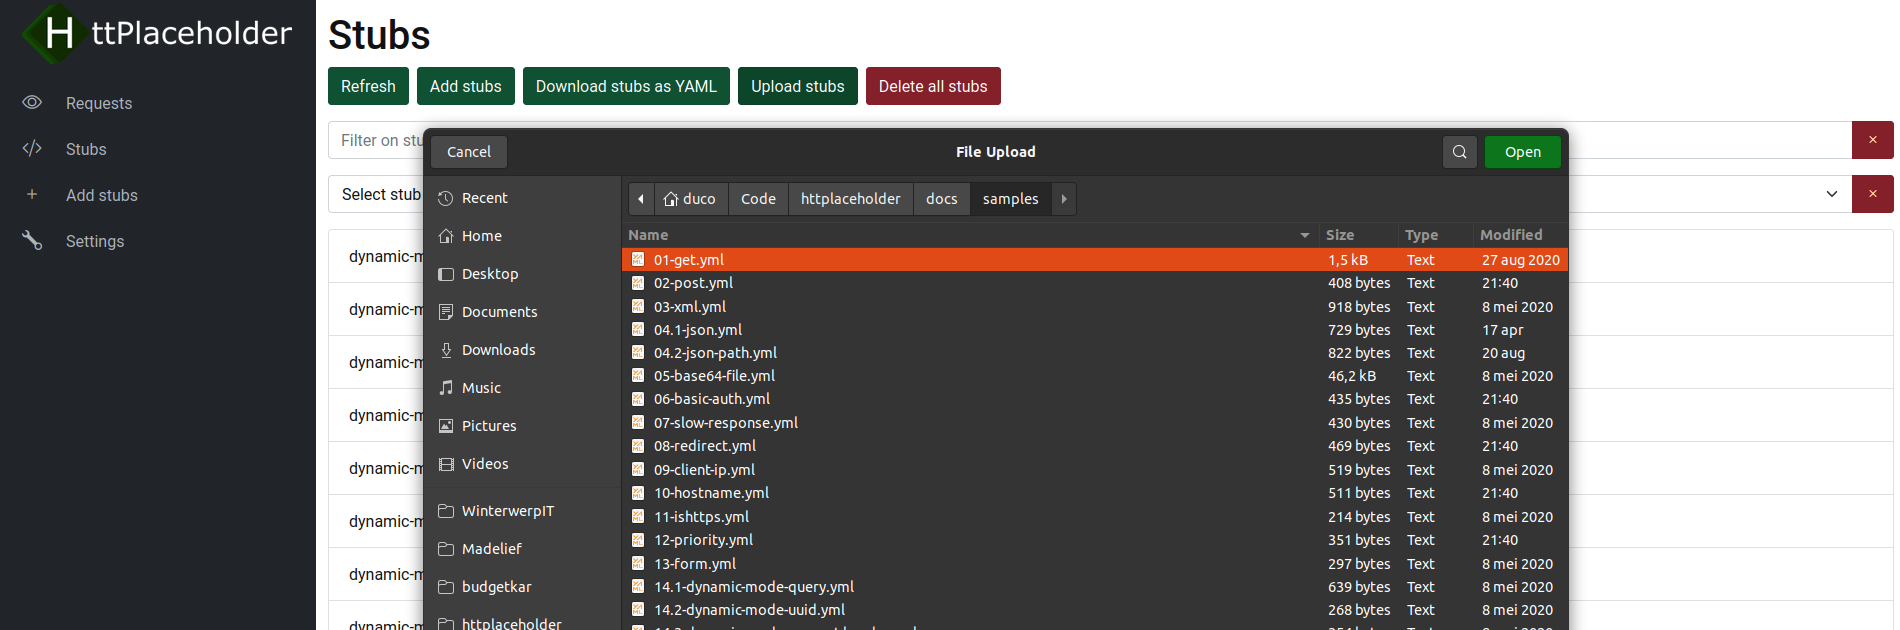
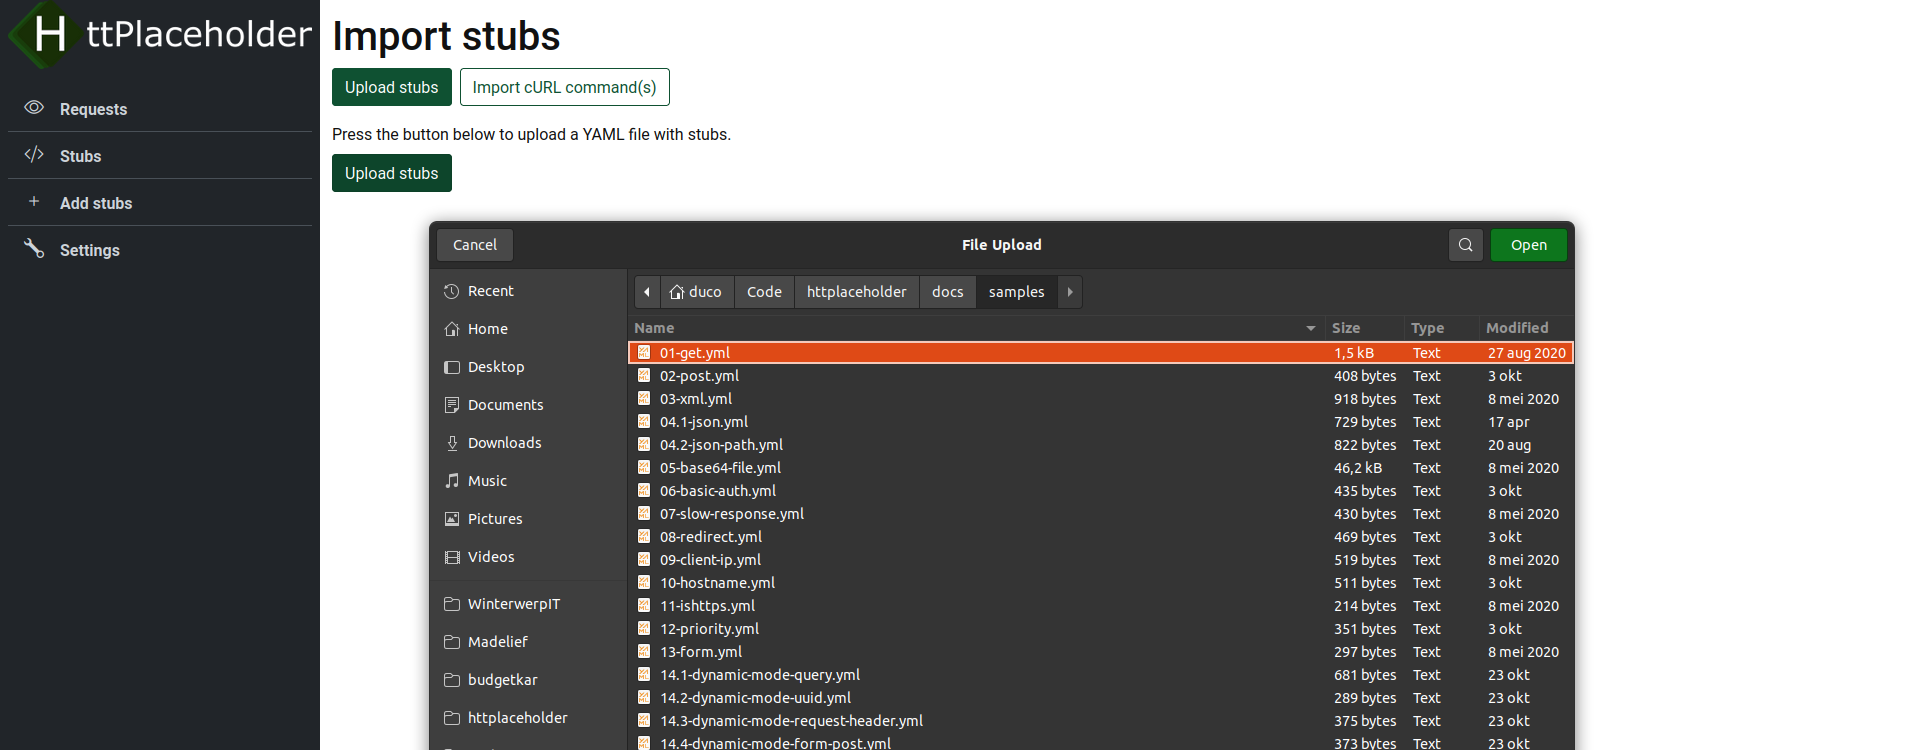
Updated docs for UI

diff --git a/docs/docs.md b/docs/docs.md
@@ -67,6 +67,12 @@
 - [Configuration](#configuration)
 - [Samples](#samples)
 - [Management interface](#management-interface)
+  - [How to get there](#how-to-get-there)
+  - [Requests page](#requests-page)
+  - [Stubs page](#stubs-page)
+  - [Import stubs](#import-stubs)
+  - [Add stub(s) form](#add-stubs-form)
+  - [Settings page](#settings-page)
 - [Tools and client libraries](#tools-and-client-libraries)
   - [HttPlaceholder REST API client for .NET](#httplaceholder-rest-api-client-for-net)
 
@@ -1956,7 +1962,7 @@ Besides being an HTTP stub and having a REST API to configure the stubs, HttPlac
 
 When you run the stub, you can just go to `http://placeholder/ph-ui`. If you've secured the API with [basic authentication](#configuration), you need to log in first.
 
-## Requests
+## Requests page
 
 On the requests page you can see all requests made to HttPlaceholder. It will show which URL was called and if a valid stub was found for the requests. You can also open a specific request and view the details of this request.
 
@@ -1980,7 +1986,7 @@ You have several options here.
 - Create stub: This action allows you to create a stub based on the request. By clicking "Create stub", a stub form will be opened with prefilled request conditions based on this specific request. This allows you to quickly create a new stub for a situation where there is no stub yet.
 - Delete: deletes the current request
 
-## Stubs
+## Stubs page
 
 On the stubs page you can see all stubs configured in HttPlaceholder. When you click on a stub, you'll see the stub configuration in YAML.
 
@@ -1991,7 +1997,7 @@ You have several options here.
 - Refresh: retrieves all stubs from HttPlaceholder.
 - Add stubs: opens a form where you can create new stubs.
 - Download stubs as YAML: downloads the current filtered selection of stubs as a YAML file. When no filter is provided, all stubs are downloaded.
-- Upload stubs: allows you to upload multiple YAML stub files.
+- Import stubs: allows you to upload multiple YAML stub files or add stubs in other kinds of ways.
 - Delete all stubs: as the name suggests, deletes ALL stubs from HttPlaceholder.
 - Disable stubs: disables the current filtered selection of stubs. If no filter is specified, all stubs are disabled.
 - Enable stubs: enables the current filtered selection of stubs. If no filter is specified, all stubs are enabled.
@@ -2007,7 +2013,51 @@ When clicking on a stub, the stub YAML will be opened and you have a few more st
 - Disable / enable: disables or enables this stub.
 - Delete: deletes this stub.
 
-## Add stub(s)
+## Import stubs
+
+This page allows you to add stubs in different kinds of ways.
+
+### Upload stubs
+
+![](img/ui/stub_upload.png)
+
+On this page, you can upload stubs you have saved on your PC in YAML format. You can select one or multiple stubs for uploading.
+
+### Import cURL commands
+
+On this page, you can create new stubs based on cURL commands. You can, for example, use cURL commands you have lying around or you can copy/paste cURL commands from your browser.
+
+![](img/ui/stub_curl_form.png)
+_On this form, you can import one or multiple cURL commands._
+
+![](img/ui/stub_curl_form_review.png)
+_When pressing the "Import cURL command(s)" button, you will see the stubs that will be added. You will have the option to directly save the stubs, edit the stubs before saving or resetting and starting over._
+
+#### Copying cURL command(s) from browser
+
+Copying cURL commands from browsers is easy and supported in all major browsers (e.g. Firefox, Chrome, Edge etc.). In general, you open the developer console of your browser, go to the "Network" tab and select the command where you would like to copy the cURl command for.
+
+**Firefox**
+
+![](img/ui/curl_copy_firefox.png)
+
+**Chrome**
+
+![](img/ui/curl_copy_chrome.png)
+
+Chrome also allows you to copy cURL commands for all requests in the network tab.
+
+**Windows**
+
+When copying cURL requests from a browser on Windows, make sure you select "Copy as cURL (bash)" or "Copy all as cURL (bash)" on Chrome or "Copy as cURL (POSIX)" in Firefox. The Windows formatting of cURL commands is currently not supported in HttPlaceholder.
+
+![](img/ui/curl_copy_firefox_windows.png)
+_Copy as cURL in Firefox on Windows_
+
+![](img/ui/curl_copy_chrome_windows.png)
+_Copy as cURL in Chrome on Windows_
+
+## Add stub(s) form
 
 You can add stubs in one of three ways: either by filling in the stub YAML, by filling in a form or by uploading a YAML file from your PC.
 
@@ -2025,15 +2075,7 @@ You can also click on "Add request / response value" so you can see what kind of
 
 Besides this, you can also choose between using the "Advanced editor" (based on [CodeMirror](https://codemirror.net/)) and "Simple editor". A simple editor was added because CodeMirror is not really suited for updating large stubs.
 
-### Uploading stubs
-
-On the "Stubs" page, select the "Upload stubs" button.
-
-![](img/ui/stub_upload.png)
-
-You can select one or multiple .yaml files from your PC. The stubs will then be added to HttPlaceholder.
-
-## Settings
+## Settings page
 
 On the settings page you can configure all kinds of settings for HttPlaceholder (only frontend settings for now).
 
